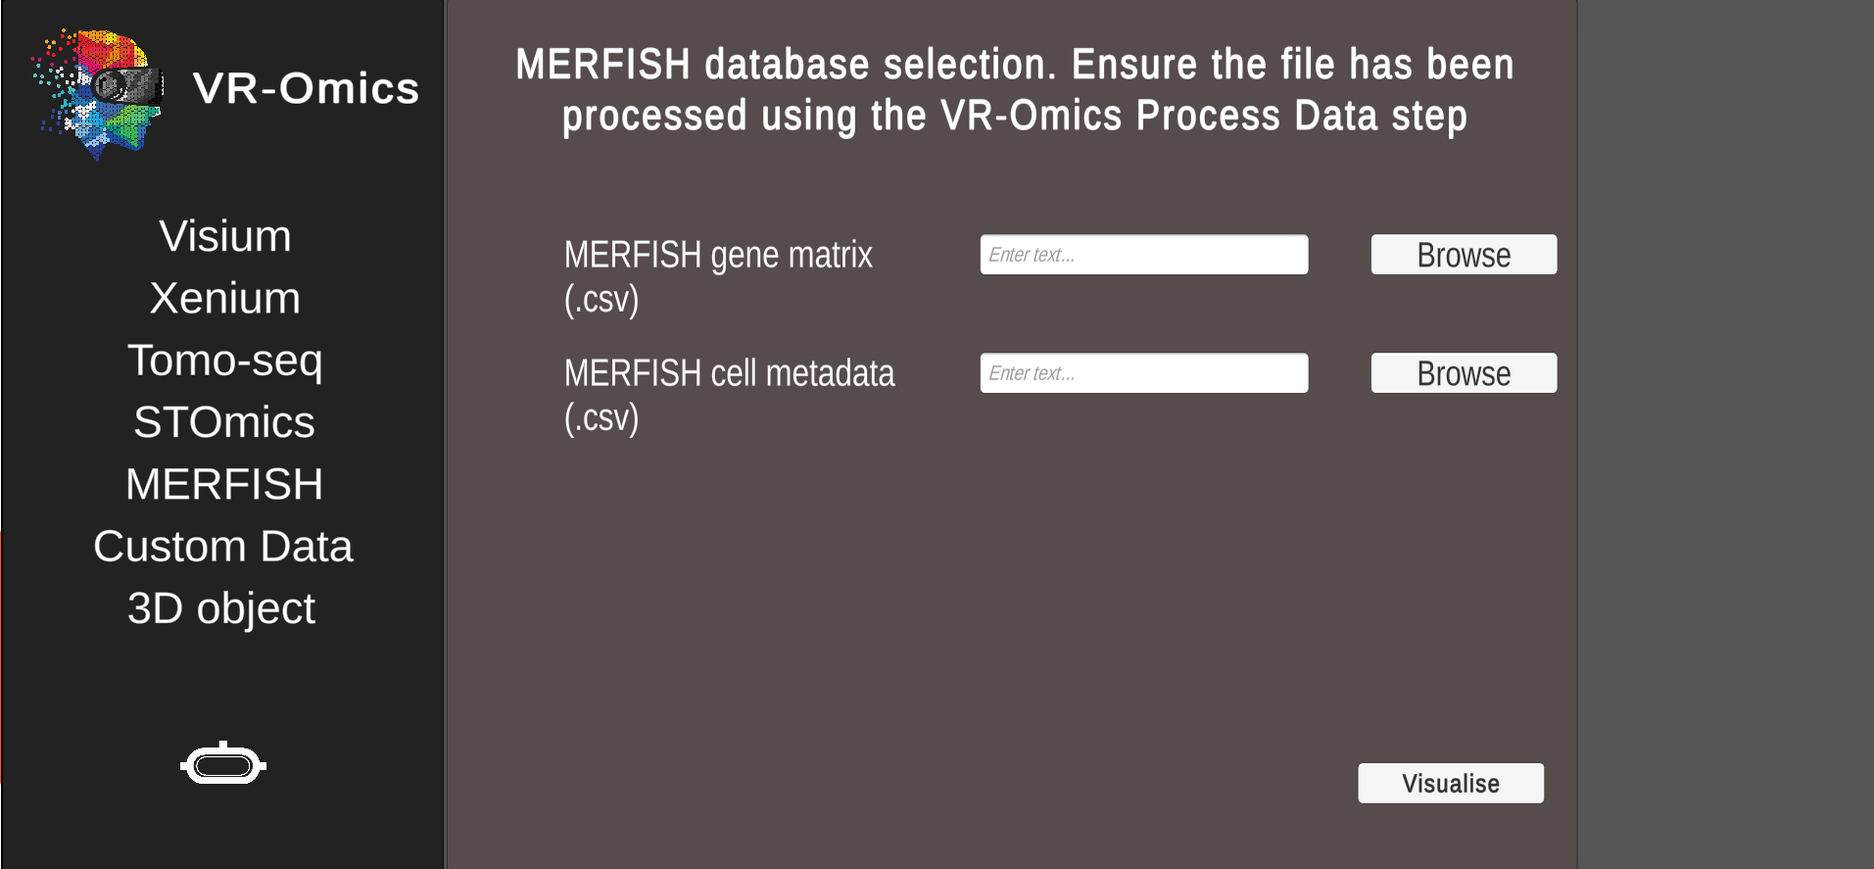
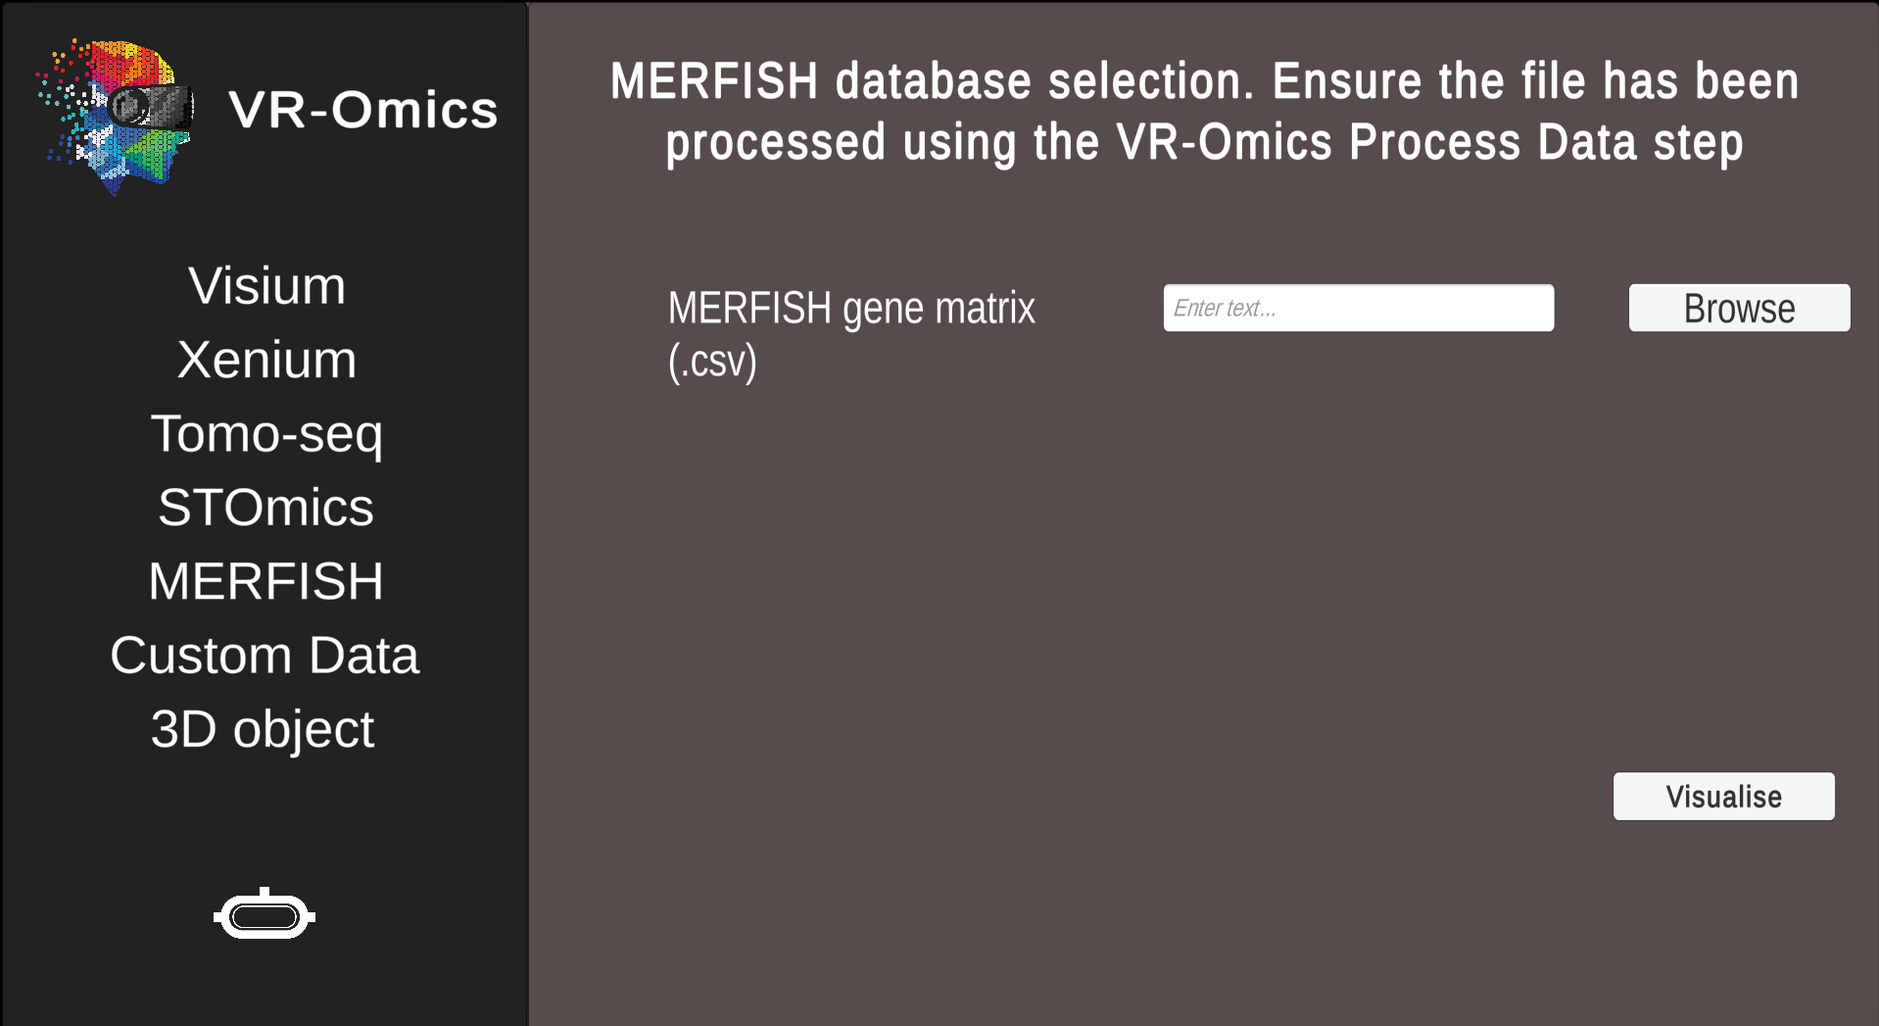
Update new pipeline documentation

diff --git a/pages/vromics.html b/pages/vromics.html
@@ -132,7 +132,7 @@
         </div> 
         <br> -->
         <div class="container">
-            <details open><summary> <span style="font-size: 24px">VR-Omics Setup</span></summary>
+            <details><summary> <span style="font-size: 24px">VR-Omics Setup</span></summary>
                 <br>
                 <!-- Visium -->
                 <a id="aw_visium"></a>
@@ -224,7 +224,11 @@
                                                 </figure>  
                                             </div> 
                                             <br>
-                                            <p>The download menu accesses the <a href="https://www.10xgenomics.com/resources/datasets">10X Genomics Resources Website</a> and downloads the requested data automatically, while processing it to be read by the VR-Omics Visualiser.</p>                             
+                                            <p>The data will be downloaded from the  <a href="https://www.10xgenomics.com/resources/datasets">10X Genomics Resources Website</a> and processed to be read in VR-Omics</p>    
+                                            The data will be stored in the VR-Omics folder on your local machine. <code>../VR-Omics/Assets/PythonFiles/sample/</code> To Visualise the data select the Visium Load function and select the whole folder from the Browse menu.
+                                            <figure>
+                                                <img src="../assets/imgs/Documentation/VR_Omics_datapaths.png" style="max-width: 100%;">
+                                            </figure>                          
                                         </td>
                                     </tr>
                                     <tr>
@@ -247,7 +251,6 @@
                                             <ul>
                                                 <li>Only filter steps containing a value will be processed, fields left blank will be ignored.</li>
                                                 <!-- TODO: Add data path for local files -->
-                                                <li>The downloaded data will be saved locally.</li>
                                                 <li>The data is <a href="#filter">filtered</a> using <a href="https://scanpy-tutorials.readthedocs.io/en/latest/spatial/basic-analysis.html" target="_blank" rel="noopener noreferrer">Scanpy</a>.</li>
                                             </ul>
                                             <div style="width: 600px;">
@@ -257,8 +260,11 @@
                                                 </figure>   
                                             </div>
                                             <br>
-                                            <p>The download menu accesses the <a href="https://www.10xgenomics.com/resources/datasets">10X Genomics Resources Website</a> and downloads the requested data automatically, while processing it to be read by the VR-Omics Visualiser.</p>                             
-                                        </td>
+                                            <p>The data will be downloaded from the  <a href="https://www.10xgenomics.com/resources/datasets">10X Genomics Resources Website</a> and processed to be read in VR-Omics</p>    
+                                            The data will be stored in the VR-Omics folder on your local machine. <code>../VR-Omics/Assets/PythonFiles/sample/</code> To Visualise the data select the Visium Load function and select the whole folder from the Browse menu.
+                                            <figure>
+                                                <img src="../assets/imgs/Documentation/VR_Omics_datapaths.png" style="max-width: 100%;">
+                                            </figure>                                           </td>
                                     </tr>
                                     <tr>
                                         <th scope="row">3</th>
@@ -288,8 +294,11 @@
                                                 </figure>
                                             </div>   
                                             <br>
-                                            <p>The download menu accesses the <a href="https://www.10xgenomics.com/resources/datasets">10X Genomics Resources Website</a> and downloads the requested data automatically, while processing it to be read by the VR-Omics Visualiser.</p>                             
-                                        </td>
+                                            <p>The data will be downloaded from the  <a href="https://www.10xgenomics.com/resources/datasets">10X Genomics Resources Website</a> and processed to be read in VR-Omics</p>    
+                                            The data will be stored in the VR-Omics folder on your local machine. <code>../VR-Omics/Assets/PythonFiles/sample/</code> To Visualise the data select the Visium Load function and select the whole folder from the Browse menu.
+                                            <figure>
+                                                <img src="../assets/imgs/Documentation/VR_Omics_datapaths.png" style="max-width: 100%;">
+                                            </figure>                                           </td>
                                     </tr>
                                     <tr>
                                         <th scope="row">4</th>
@@ -323,7 +332,10 @@
                                             <br>
                                             <p>The download menu accesses the <a href="https://www.10xgenomics.com/resources/datasets">10X Genomics Resources Website</a> and downloads the requested data automatically, while processing it to be read by the VR-Omics Visualiser.</p>                             
                                             <!-- TODO: Change DATA PATH-->
-                                            The plots will be saved locally under <code>../Dataset/data/Dataset/spatial/</code> with Dataset being the name of the data set.
+                                            The data will be stored in the VR-Omics folder on your local machine. <code>../VR-Omics/Assets/PythonFiles/sample/</code> To Visualise the data select the Visium Load function and select the whole folder from the Browse menu.
+                                            <figure>
+                                                <img src="../assets/imgs/Documentation/VR_Omics_datapaths.png" style="max-width: 100%;">
+                                            </figure> 
                                         </td>
                                     </tr>
                                 </tbody>
@@ -345,7 +357,12 @@
                                             <li>Click the <span class="badge badge-pill badge-info">Browse</span> button and search for the sample folders of the Visium slice (Ensure the folder has <a href="#format">this format</a>.)* </li>
                                         </ol>
                                     </td>
-                                    <td>* The folder will be in the right format if the sample was downloaded using the VR-Omics Automated Workflow or the Sample has been processed using the Automated Workflow beforehand.</td>
+                                    <td>
+                                        <p>* The folder will be in the right format if the sample was downloaded using the VR-Omics Automated Workflow or the Sample has been processed using the Automated Workflow beforehand.</p>
+                                        <figure>
+                                            <img src="../assets/imgs/Documentation/VR_Omics_datapaths.png" style="max-width: 100%;">
+                                        </figure>  
+                                    </td>
                                 </tr>
                                 <tr>
                                     <th scope="row">2</th>
@@ -428,10 +445,15 @@
                                         <ol>
                                             <li>From the main menu select <span class="badge badge-pill badge-info">Visium</span></li>
                                             <li>Select <span class="badge badge-pill badge-info">Load</span></li> 
-                                            <li>Click the <span class="badge badge-pill badge-info">Browse</span> button and search for the sample folder of the Visium slide (Ensure the folder has <a href="#format">this format</a>.)* </li>
+                                            <li>Click the <span class="badge badge-pill badge-info">Browse</span> button and search for the sample folder of the Visium slide. Select the main folder as shown in the figure. Only Data processed or downloaded with VR-Omics can be used, otherwise ensure the folder has <a href="#format">this format</a>.* </li>
                                         </ol>
                                     </td>
-                                    <td>* The folder will be in the right format if the sample was downloaded using the VR-Omics Automated Workflow or the Sample has been processed using the Automated Workflow beforehand.</td>
+                                    <td>
+                                        <p>* The folder will be in the right format if the sample was downloaded using the VR-Omics Automated Workflow or the Sample has been processed using the Automated Workflow beforehand.</p>
+                                        <figure>
+                                            <img src="../assets/imgs/Documentation/VR_Omics_datapaths.png" style="max-width: 100%;">
+                                        </figure>  
+                                    </td>
                                 </tr>
                                 <tr>
                                     <th scope="row">2</th>
@@ -530,7 +552,11 @@
                                                 <img src="../assets/imgs/Documentation/Visium_and_C18/vis_process_only.png" style="max-width: 100%;">
                                             </figure> 
                                         </div> 
-                                        <p>Optionally, the <span class="badge badge-pill badge-info">Process and filter dataset</span> option can be used if the dataset needs to be filtered.</p>
+                                        <p>Optionally, the <span class="badge badge-pill badge-info">Skip Filter Step</span> option can be used if the dataset does not need to be filtered.</p>
+                                        <p>The output will be saved in the VR-Omics folder</p>
+                                        <figure>
+                                            <img src="../assets/imgs/Documentation/VR_Omics_datapaths.png" style="max-width: 100%;">
+                                        </figure>  
                                     </td>
                                 </tr>
                                 <tr>
@@ -558,8 +584,11 @@
                                             <figure>
                                                 <img src="../assets/imgs/Documentation/Visium_and_C18/vis_process_menu.png" style="max-width: 100%;">
                                             </figure> 
+                                            <p>The output will be saved in the VR-Omics folder</p>
+                                            <figure>
+                                                <img src="../assets/imgs/Documentation/VR_Omics_datapaths.png" style="max-width: 100%;">
+                                            </figure>  
                                         </div> 
-                                        <p>Optionally, the <span class="badge badge-pill badge-info">Prepare data for VR-Omics only</span> option can be used if the dataset does not need to be filtered</p>
                                     </td>
                                 </tr>
                             </tbody>
@@ -730,8 +759,12 @@
                                                 <img src="../assets/imgs/Documentation/Xenium/xenium_process.png" style="max-width: 100%;">
                                             </figure> 
                                         </div> 
-                                        <p>The process step can take up to 5 minutes depending on the size of the dataset.</p>
+                                        <p>The process step can take a couple of minutes depending on the size of the dataset and the computational power of the computer used.</p>
                                         <p>Once the data was processed this step can be skipped and the data can be visualised using the <a href="#xenium_load">Xenium load</a> option.</p>
+                                        <p>The processed data will be saved in the VR-Omics data folder. To Visualise the data select the complete folder as shown in the figure.</p>
+                                        <figure>
+                                            <img src="../assets/imgs/Documentation/VR_Omics_datapaths.png" style="max-width: 100%;">
+                                        </figure>  
                                     </td>
                                 </tr>
                             </tbody>
@@ -761,13 +794,16 @@
                                     <th scope="row">2</th>
                                     <td>Select the Xenium files</td>
                                     <td>
-                                        <p>Select the Xenium folder <a href="#xenium_process">processed</a> with the VR-Omics AW using <span class="badge badge-pill badge-info">Browse</span>.</p>
+                                        <p>Select the Xenium folder <a href="#xenium_process">processed</a> with the VR-Omics AW (highlighted in green in the picture) using <span class="badge badge-pill badge-info">Browse</span>.</p>
                                     </td>
                                     <td>
                                         <div style="width: 600px;">
                                             <figure>
                                                 <img src="../assets/imgs/Documentation/Xenium/xenium_load.png" style="max-width: 100%;">
-                                                <p>The data set can be found in the VR-Omics directory. Navigate from there to <code>Assets/PythonFiles</code> select the whole folder starting with <code>Xenium_output_...</code></p>
+                                                <p>The data set can be found in the VR-Omics directory. Navigate from there to <code>VR-Omics/Assets/PythonFiles/sample</code> select the whole folder as shown in the picture</p>
+                                                <figure>
+                                                    <img src="../assets/imgs/Documentation/VR_Omics_datapaths.png" style="max-width: 100%;">
+                                                </figure>  
                                             </figure> 
                                         </div> 
                                         <p>Only one public dataset was available during development of VR-Omics</p>
@@ -786,7 +822,7 @@
                                                 <img src="../assets/imgs/Documentation/Xenium/xenium_load.png" style="max-width: 100%;">
                                             </figure> 
                                         </div> 
-                                        <p>Ensure the data has been processed using the <a href="#xenium_process">Process</a> function.</p>
+                                        <p>Ensure the data has been processed before visualising it using the <a href="#xenium_process">Process</a> function.</p>
                                     </td>
                                 </tr>
                             </tbody>
@@ -824,7 +860,7 @@
                                         <li>Select the gene expression <code>.csv</code> file in AP* cutting direction using <span class="badge badge-pill badge-info">Browse</span>.</li>
                                         <li>Select the gene expression <code>.csv</code> file in VD* cutting direction using <span class="badge badge-pill badge-info">Browse</span>.</li>
                                         <li>Select the gene expression <code>.csv</code> file in LR* cutting direction using <span class="badge badge-pill badge-info">Browse</span>.</li>
-                                        <li>Select the 3d reconstructed gene expression <code>.txt</code> file for a gene using <span class="badge badge-pill badge-info">Browse</span>.</li>
+                                        <li>Select the folder containing the reconstructed gene expression <code>.txt</code> files using <span class="badge badge-pill badge-info">Browse</span>.</li>
                                     </td>
                                     <td>
                                         <div style="width: 600px;">
@@ -892,8 +928,12 @@
                                                 <img src="../assets/imgs/Documentation/Stomics/stomics_process.png" style="max-width: 100%;">
                                             </figure> 
                                         </div> 
-                                        <p>The process step can take up to 5 minutes depending on the size of the dataset.</p>
+                                        <p>The process step can take couple of minutes depending on the size of the dataset and the computational power of the machine.</p>
                                         <p>Once the data was processed this step can be skipped and the data can be visualised using the <a href="#stomics_load">STOmics load</a> option.</p>
+                                        <p>The processed data will be saved in the VR-Omics data folder. To Visualise the data select the complete folder as shown in the figure.</p>
+                                        <figure>
+                                            <img src="../assets/imgs/Documentation/VR_Omics_datapaths.png" style="max-width: 100%;">
+                                        </figure>  
                                     </td>
                                 </tr>
                             </tbody>
@@ -932,6 +972,10 @@
                                             </figure> 
                                         </div> 
                                         <p>Ensure the data was processed using the <a href="#stomics_process">Process</a> function.</p>
+                                        <p>The processed data can be found in the VR-Omics data folder. To Visualise the data select the complete folder as shown in the figure.</p>
+                                        <figure>
+                                            <img src="../assets/imgs/Documentation/VR_Omics_datapaths.png" style="max-width: 100%;">
+                                        </figure>  
                                     </td>
                                 </tr>
                             </tbody>
@@ -977,8 +1021,11 @@
                                                 <img src="../assets/imgs/Documentation/Merfish/merfish_process.png" style="max-width: 100%;">
                                             </figure> 
                                         </div> 
-                                        <p>The MERFISH data used was provided by <a href="vizgen.com">Vizgen</a> where there data is publicly available under their <a href="vizgen.com/data-release-program/">data release program.</a></p>
-                                        <p>The data will be saved in the VR-Omics directory. From here navigate to <code>Assets/PythonFiles</code></p>
+                                        <p>The MERFISH data we used is from <a href="vizgen.com">Vizgen</a>, where there data is publicly available under their <a href="vizgen.com/data-release-program/">data release program.</a></p>
+                                        <p>The processed data will be saved in the VR-Omics data folder. To Visualise the data select the complete folder as shown in the figure.</p>
+                                        <figure>
+                                            <img src="../assets/imgs/Documentation/VR_Omics_datapaths.png" style="max-width: 100%;">
+                                        </figure>                                      
                                     </td>
                                 </tr>
                             </tbody>
@@ -1008,14 +1055,17 @@
                                     <th scope="row">2</th>
                                     <td>Select the MERFISH files</td>
                                     <td>
-                                        <li>Select the MERFISH gene expression <code>.csv</code> file using <span class="badge badge-pill badge-info">Browse</span></li>.
-                                        <li>Select the MERFISH cell meta data <code>.csv</code> file using <span class="badge badge-pill badge-info">Browse</span></li>.
+                                        <li>Select the MERFISH sample folder processed with the VR-Omics AW Process function <span class="badge badge-pill badge-info">Browse</span></li>.
                                 </td>
                                     <td>
                                         <div style="width: 600px;">
                                             <figure>
                                                 <img src="../assets/imgs/Documentation/Merfish/merfish_load.png" style="max-width: 100%;">
                                             </figure> 
+                                            <p>The processed data can be found in the VR-Omics data folder. To Visualise the data select the complete folder as shown in the figure.</p>
+                                            <figure>
+                                                <img src="../assets/imgs/Documentation/VR_Omics_datapaths.png" style="max-width: 100%;">
+                                            </figure>   
                                         </div> 
                                         <p>The MERFISH data used was provided by <a href="vizgen.com">Vizgen</a> where there data is publicly available under their <a href="vizgen.com/data-release-program/">data release program.</a></p>
                                     </td>
@@ -2008,7 +2058,7 @@
                                 </th>
                                 <td>
                                     <p>If the VR-Omics Automated Workflow was used to download the Visium data optionally the <a href="#vis_aw_plots">output plots</a> can be generated.</p>
-                                    <p>The plots will be saved locally in the sample folder of the dataset under <code>../Dataset/data/Dataset/spatial/</code>.</p>
+                                    <p>The plots will be saved within the sample folder in the VR-Omics folder <code>../VR-Omics/Assets/PythonFiles/sample/figures</code>.</p>
                                     <!-- TODO: link plots section -->
                                     <p>The plots can also be <a href="#vis_plot_access">quick accessed </a>from the top menu through the Visualiser</p>
                                 </td>
